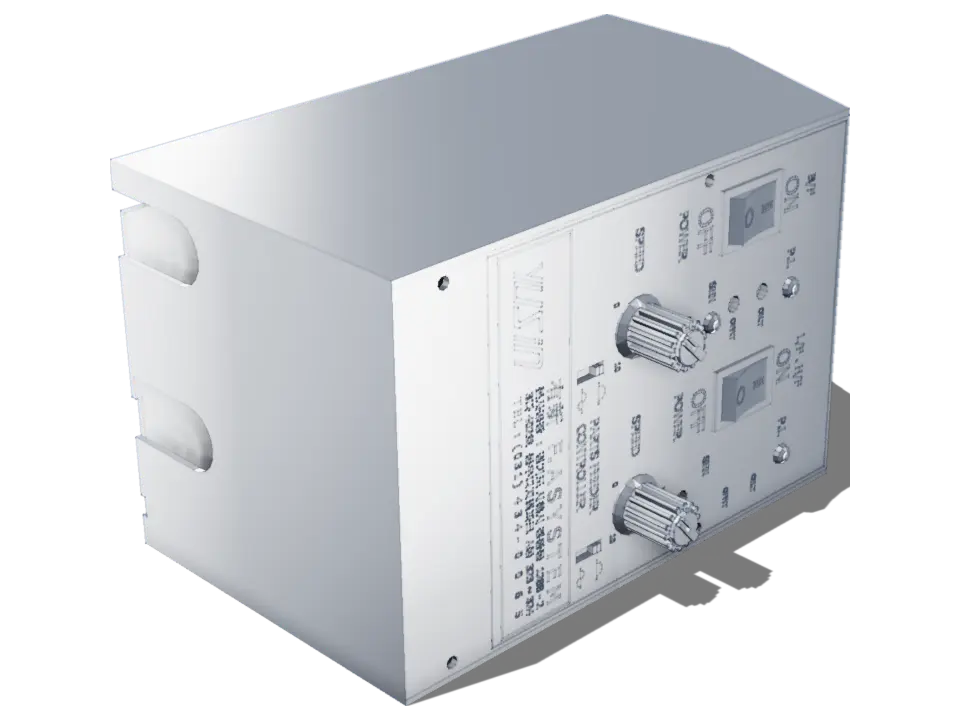
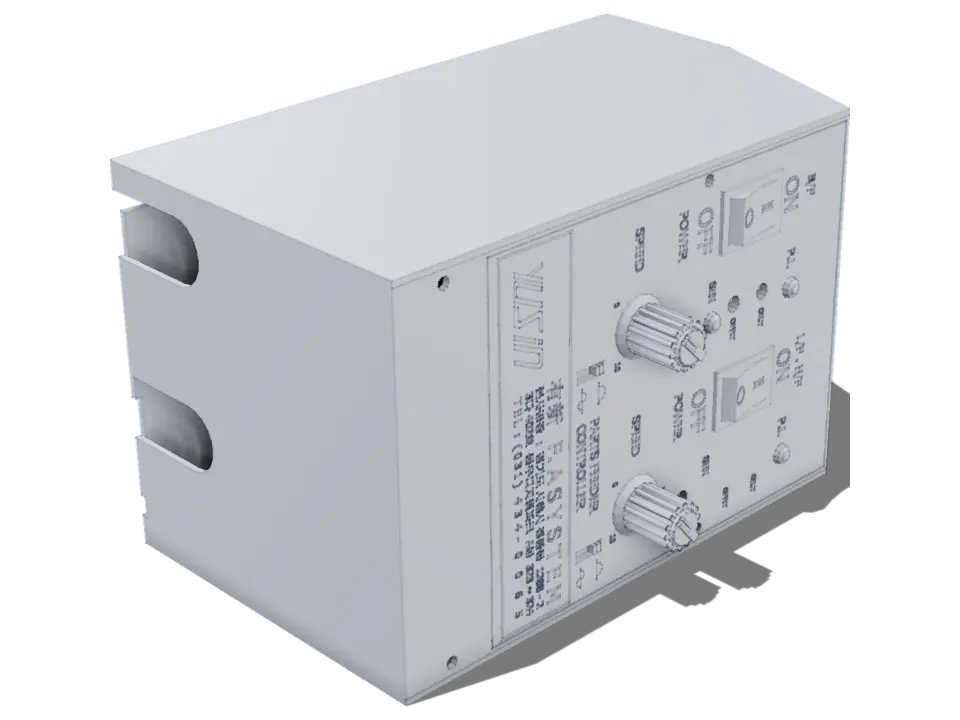
컨트롤러를 무광 도장으로 · 우레탄 초록을 보이게
컨트롤러가 번쩍이던 까닭은 재질이었다. 일곱 카드에 알루미늄 하나를
공통으로 칠하고 있었는데, 실물은 무광 도장 철판 케이스다. 피더 본체와
프레임은 실제로 알루미늄이라 그 값이 맞고, 컨트롤러만 아니었다.
제품마다 재질을 가를 수 있게 :mat=paint 를 두었다.

metalness 만 내리니 이번엔 하얗게 떴다. 확산광을 그대로 받기 때문이다.
실물 사진과 네 값을 나란히 놓고 색 0.54 를 골랐다. 0.70 은 희고 0.46 은
다른 여섯보다 어두웠다.

우레탄은 색만으로 안 됐다. 고도 25도에서는 볼 안쪽이 거의 안 보여
칠할 면 자체가 없었다. 40도로 올려 안쪽 트랙을 드러내고 색도 진하게
했다. 55도도 찍어 봤지만 내려다보는 각이 세서 여섯과 이질적이었다.
일곱 중 이 하나만 각도가 다르다.

일곱 합 270KB.

diff --git a/src/data/products.ts b/src/data/products.ts
@@ -514,6 +514,21 @@ export type Product = {
    *               AO 로 충분했지만 조립품은 다르다 — 프레임·슈트·패널 각인이
    *               선으로 드러나 구조가 읽힌다. 끈 판과 나란히 찍어 골랐다
    *
+   *    ⚠⚠ **일곱이 같은 설정이 아니다. 예외가 둘이다.**
+   *
+   *       **우레탄 코팅 — 고도각 25 가 아니라 40.**
+   *       "초록색 잘 안보여서 더 잘보이게 해줘야 할거 같은데" 를 받았다.
+   *       25 도에서는 볼 **안쪽이 거의 안 보여** 코팅 색을 아무리 올려도
+   *       칠할 면이 없었다. 40 도면 안쪽 트랙이 드러난다(55 도도 찍어
+   *       봤지만 내려다보는 각이 세서 여섯과 이질적이었다). 색도 함께
+   *       진하게 했다 — prodrender 의 COATC 주석에 값과 까닭이 있다.
+   *       → 이 카드만 scratchpad/run-ure.mjs 로 굽는다.
+   *
+   *       **컨트롤러 — 알루미늄이 아니라 무광 도장**(`:mat=paint`).
+   *       "너무 빛이 반사한거 처럼 보이고 흰색 빛" 을 받았다. 실물
+   *       (controller-01.webp)은 도장 철판 케이스다. 나머지 여섯은 피더
+   *       본체·프레임이라 실제로 알루미늄이고 기본값이 맞다.
+   *
    *    ⚠ 품질은 Q 0.82 → **0.76** 이다. 0.82 면 일곱 합이 302KB 로 한계
    *       300KB 를 넘었는데, 318px 로 줄여 보면 **두 판이 구분이 안 된다**.
    *       지금 267KB(실물 사진 543KB 의 49%)다. */
